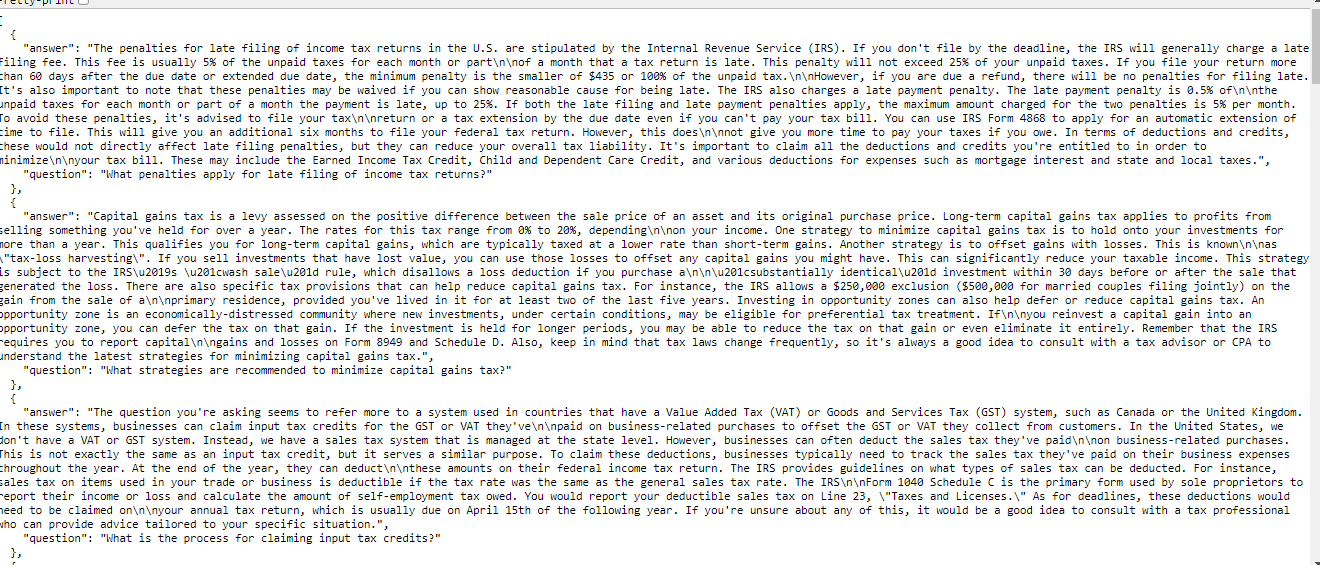
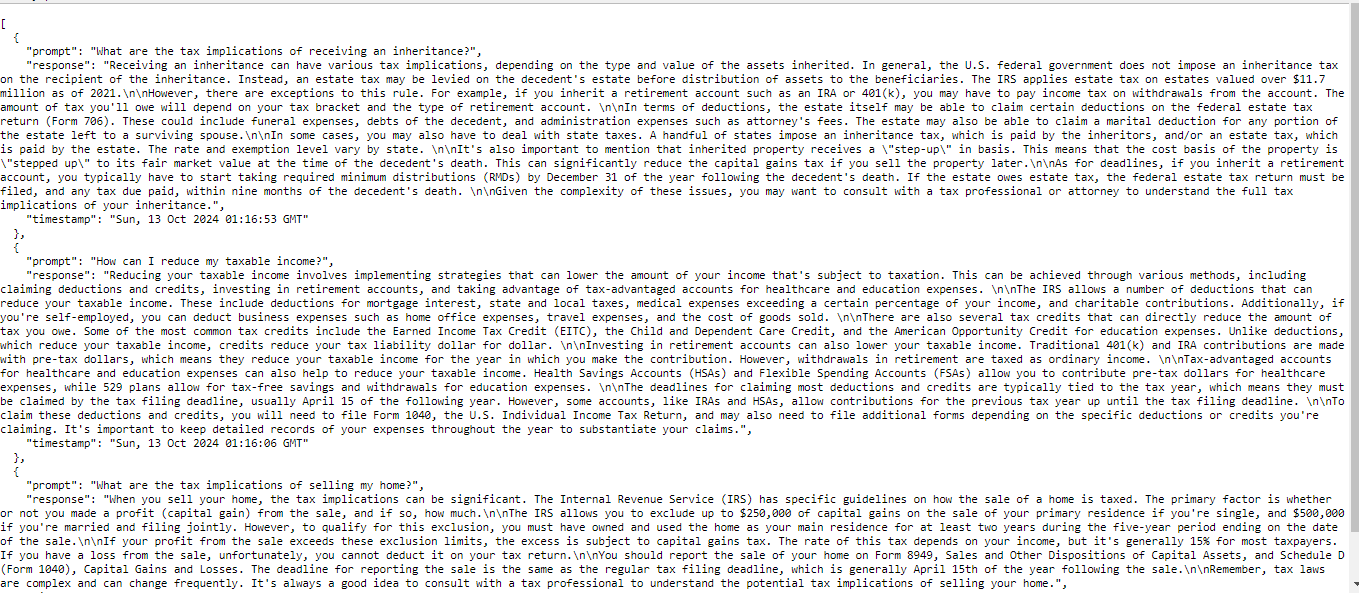
updated db code

diff --git a/app.py b/app.py
@@ -4,6 +4,7 @@ import re
 import os
 from flask_sqlalchemy import SQLAlchemy
 from requests.adapters import Retry, HTTPAdapter
+from datetime import datetime
 
 app = Flask(__name__)
 
@@ -14,10 +15,11 @@ app.config['SQLALCHEMY_TRACK_MODIFICATIONS'] = False
 db = SQLAlchemy(app)
 
 # Define a model for storing chat history
-class Chat(db.Model):
+class TaxChat(db.Model):
     id = db.Column(db.Integer, primary_key=True)
-    question = db.Column(db.Text, nullable=False)
-    answer = db.Column(db.Text, nullable=False)
+    prompt = db.Column(db.Text, nullable=False)
+    response = db.Column(db.Text, nullable=False)
+    timestamp = db.Column(db.DateTime, default=datetime.utcnow)
 
 # Create the database tables
 with app.app_context():
@@ -42,58 +44,18 @@ def is_tax_related(question):
     pattern = re.compile(r'\b(?:' + '|'.join(tax_keywords) + r')\b', re.IGNORECASE)
     return bool(pattern.search(question))
 
-# Function to check if the user is asking for more details or in-depth explanation using regex
-def is_follow_up(question):
-    follow_up_keywords = [
-        "more details", "explain further", "in-depth", "elaborate", "can you clarify", 
-        "expand", "give more information", "go deeper", "explain in more detail", "I did not understand"
-    ]
-    pattern = re.compile(r'\b(?:' + '|'.join(follow_up_keywords) + r')\b', re.IGNORECASE)
-    return bool(pattern.search(question))
-
-# Function to split response into paragraphs of 50 words each
-def split_into_paragraphs(response, words_per_paragraph=50):
-    words = response.split()
-    paragraphs = []
-    paragraph = []
-    
-    for word in words:
-        paragraph.append(word)
-        if len(paragraph) >= words_per_paragraph:
-            paragraphs.append(' '.join(paragraph))
-            paragraph = []
-    
-    if paragraph:
-        paragraphs.append(' '.join(paragraph))
-    
-    return '\n\n'.join(paragraphs)  # Each paragraph separated by two new lines
-
 # Function to get OpenAI response and handle incomplete responses
-def get_openai_response(question, detailed=False, previous_answer=None):
-    api_key = 'Enter your openai_api_key here'
+def get_openai_response(question):
+    api_key = 'Enter OpenAI_API_Key_Here'
     if not api_key:
-        return "Error: OpenAI API key not found. Please set the OPENAI_API_KEY environment variable."
+        return "Error: OpenAI API key not found."
 
     headers = {
         'Authorization': f'Bearer {api_key}',
         'Content-Type': 'application/json'
     }
 
-    # Construct prompt based on whether it's a detailed follow-up
-    if detailed and previous_answer:
-        prompt = f"""
-You provided the following response earlier:
-
-Response: "{previous_answer}"
-
-The user has now asked for more details or clarification. Please provide a more detailed, in-depth explanation:
-
-Question: "{question}"
-
-Include additional tax laws, examples, and relevant forms where applicable.
-"""
-    else:
-        prompt = f"""
+    prompt = f"""
 You are an expert U.S. tax advisor. Please answer the following question:
 
 Question: "{question}"
@@ -112,7 +74,7 @@ If the question is unclear or not tax-related, ask for clarification politely.
     data = {
         'model': 'gpt-4',
         'messages': [{'role': 'user', 'content': prompt.strip()}],
-        'max_tokens': 2000,  # Increase max_tokens to allow longer responses
+        'max_tokens': 2000,
         'temperature': 0.5,
     }
 
@@ -121,65 +83,14 @@ If the question is unclear or not tax-related, ask for clarification politely.
     session.mount('https://', HTTPAdapter(max_retries=retries))
 
     try:
-        # Increase the timeout to 60 seconds
         response = session.post('https://api.openai.com/v1/chat/completions',
                                 headers=headers, json=data, timeout=60)
         response.raise_for_status()
-    except requests.exceptions.Timeout:
-        return "Error: The request timed out while communicating with the OpenAI API. Please try again later."
     except requests.exceptions.RequestException as e:
         return f"Error communicating with OpenAI API: {e}"
 
     response_data = response.json()
-    original_response = response_data['choices'][0]['message']['content'].strip()
-
-    # If the response is incomplete (cut off in the middle), add prompt to continue
-    if response_data['choices'][0]['finish_reason'] == 'length':
-        # Prompt the API to continue from where it left off
-        next_prompt = f"Continue from: '{original_response[-30:]}'"
-        continuation = get_openai_continuation(next_prompt)
-        original_response += continuation
-
-    # Split the response into paragraphs after every 50 words
-    formatted_response = split_into_paragraphs(original_response)
-    
-    return formatted_response
-
-# Function to get continuation if the response is cut off
-def get_openai_continuation(prompt):
-    api_key = os.getenv('OPENAI_API_KEY')
-    if not api_key:
-        return ""
-
-    headers = {
-        'Authorization': f'Bearer {api_key}',
-        'Content-Type': 'application/json'
-    }
-
-    data = {
-        'model': 'gpt-4',
-        'messages': [{'role': 'user', 'content': prompt.strip()}],
-        'max_tokens': 1000,  # Fetch additional 1000 tokens for continuation
-        'temperature': 0.5,
-    }
-
-    session = requests.Session()
-    retries = Retry(total=5, backoff_factor=1, status_forcelist=[502, 503, 504])
-    session.mount('https://', HTTPAdapter(max_retries=retries))
-
-    try:
-        response = session.post('https://api.openai.com/v1/chat/completions',
-                                headers=headers, json=data, timeout=60)
-        response.raise_for_status()
-    except requests.exceptions.Timeout:
-        return ""
-    except requests.exceptions.RequestException as e:
-        return ""
-
-    response_data = response.json()
-    continuation = response_data['choices'][0]['message']['content'].strip()
-    
-    return continuation
+    return response_data['choices'][0]['message']['content'].strip()
 
 # Flask route to handle tax-related question input
 @app.route('/api/tax-prompt', methods=['POST'])
@@ -187,30 +98,12 @@ def tax_prompt():
     data = request.get_json()
     question = data.get('question', '').strip()
 
-    # Check if this is a follow-up question or a request for more details using regex
-    follow_up_chat = Chat.query.order_by(Chat.id.desc()).first()  # Fetch the latest question
-    if follow_up_chat and is_follow_up(question):
-        # User asked a follow-up or more detailed question
-        detailed_response = get_openai_response(follow_up_chat.question, detailed=True, previous_answer=follow_up_chat.answer)
-        chat = Chat(question=question, answer=detailed_response)
-        db.session.add(chat)
-        db.session.commit()
-        return jsonify({'answer': detailed_response})
-
-    # Validate the question for a new question
     if not question:
         return jsonify({'error': 'No question provided.'}), 400
 
     if not is_tax_related(question):
-        # If it's not a valid tax-related question, ask the user to ask a valid tax question.
         return jsonify({'error': 'Please ask a valid tax-related question.'}), 400
 
-    # Check if the same question was asked before
-    previous_chat = Chat.query.filter_by(question=question).first()
-    if previous_chat:
-        return jsonify({'answer': previous_chat.answer})
-
-    # If it's a new question, get the GPT response
     response = get_openai_response(question)
 
     # Check for errors in the OpenAI response
@@ -218,18 +111,25 @@ def tax_prompt():
         return jsonify({'error': response}), 500
 
     # Store the question and response in the database
-    chat = Chat(question=question, answer=response)
+    chat = TaxChat(prompt=question, response=response)
     db.session.add(chat)
     db.session.commit()
 
-    # Return the response to the client
     return jsonify({'answer': response})
 
 # Route to get previous chats (with question followed by response)
 @app.route('/api/get-chats', methods=['GET'])
 def get_chats():
-    chats = Chat.query.order_by(Chat.id.desc()).all()
-    chat_history = [{'question': chat.question, 'answer': chat.answer} for chat in chats]
+    chats = TaxChat.query.order_by(TaxChat.timestamp.desc()).all()
+    chat_history = [{'prompt': chat.prompt, 'response': chat.response, 'timestamp': chat.timestamp} for chat in chats]
+    return jsonify(chat_history)
+
+# Route to get a specified number of previous responses for history context
+@app.route('/api/get-history', methods=['GET'])
+def get_history():
+    count = request.args.get('count', default=5, type=int)
+    chats = TaxChat.query.order_by(TaxChat.timestamp.desc()).limit(count).all()
+    chat_history = [{'prompt': chat.prompt, 'response': chat.response, 'timestamp': chat.timestamp} for chat in reversed(chats)]
     return jsonify(chat_history)
 
 if __name__ == '__main__':

diff --git a/README.md b/README.md
@@ -14,6 +14,8 @@ A simple chatbot application built with Python Flask, enabling users to interact
 - **Chat History:** Users can view the history of their interactions with the chatbot.
 - **User-Friendly Interface:** A simple web interface to input questions and receive answers.
 - **Customizable AI Responses:** The chatbot is powered by an AI model capable of understanding and responding to tax-related queries.
+- **Transactional Logging:** Prompt and response details are saved locally in a SQL database for audit compliance.
+- **History Context Window:** Users can set a history context window to query past interactions, enhancing the chatbot's ability to provide context-aware responses.
 
 ## Technologies Used
 
@@ -47,8 +49,8 @@ Follow the steps below to set up and run the application locally.
    pip install flask
    ```
 
-4. **Set up the database (if applicable):**
-   - Initialize your database. If using SQLite, the database file will be created automatically when the application runs.
+4. **Set up the database**
+   - The SQL table for storing prompts and responses will be created automatically when the application runs. Ensure you have the necessary permissions to create a database.
 
 ## Usage
 
@@ -139,9 +141,30 @@ $(document).ready(function() {
 });
 ```
 
-## Testing
+## Database Testing
+- ![Chat History with Prompts and Responses](output/chat0history.PNG) 
 
-You can test the application using tools like Postman or directly through the frontend interface. Ensure that the server is running to receive requests.
+- To verify that the SQL table for prompts and responses is properly set up, you can:
+
+- Use a SQL client or database management tool to connect to the database.
+
+- Execute the following SQL command to check the contents of the prompts and responses table:
+
+```
+sqlite chat_history.db
+```
+
+```
+.tables
+```
+**Output**
+- ![Showing Database Tables](output/db-tables.PNG)  
+
+```
+select * from tax_chat;_
+```
+**Output**
+- ![Database Table showing chat history](output/db-chat-history.PNG)  
 
 ## Contributing
 
